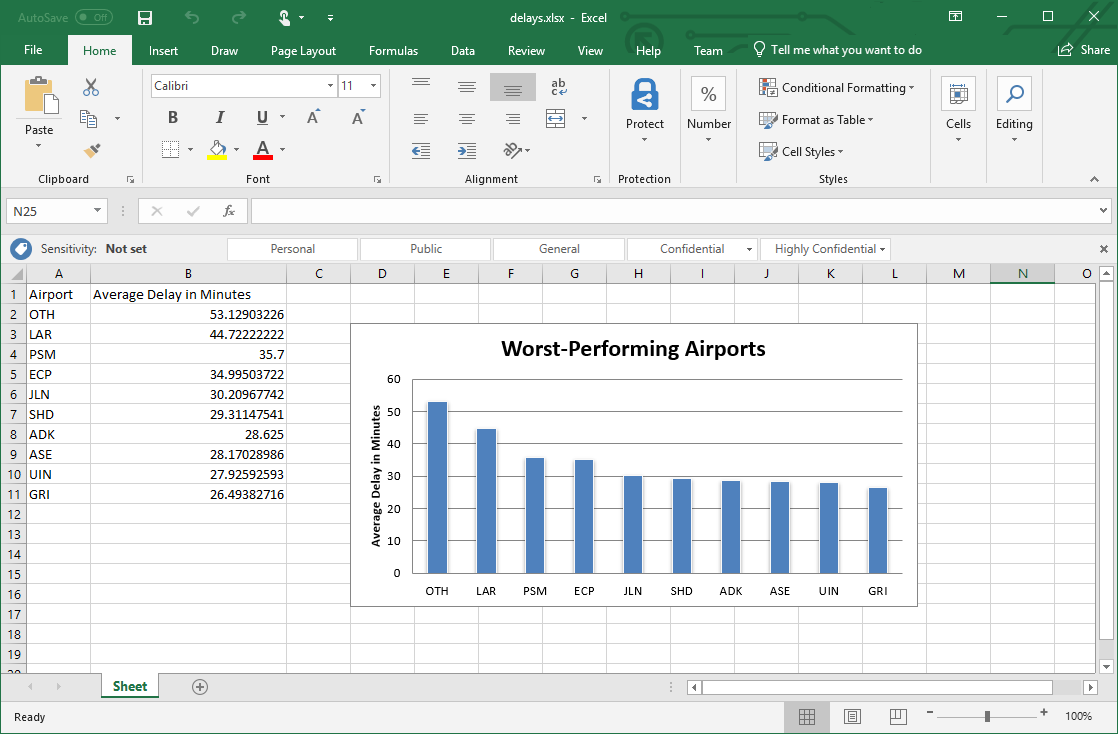
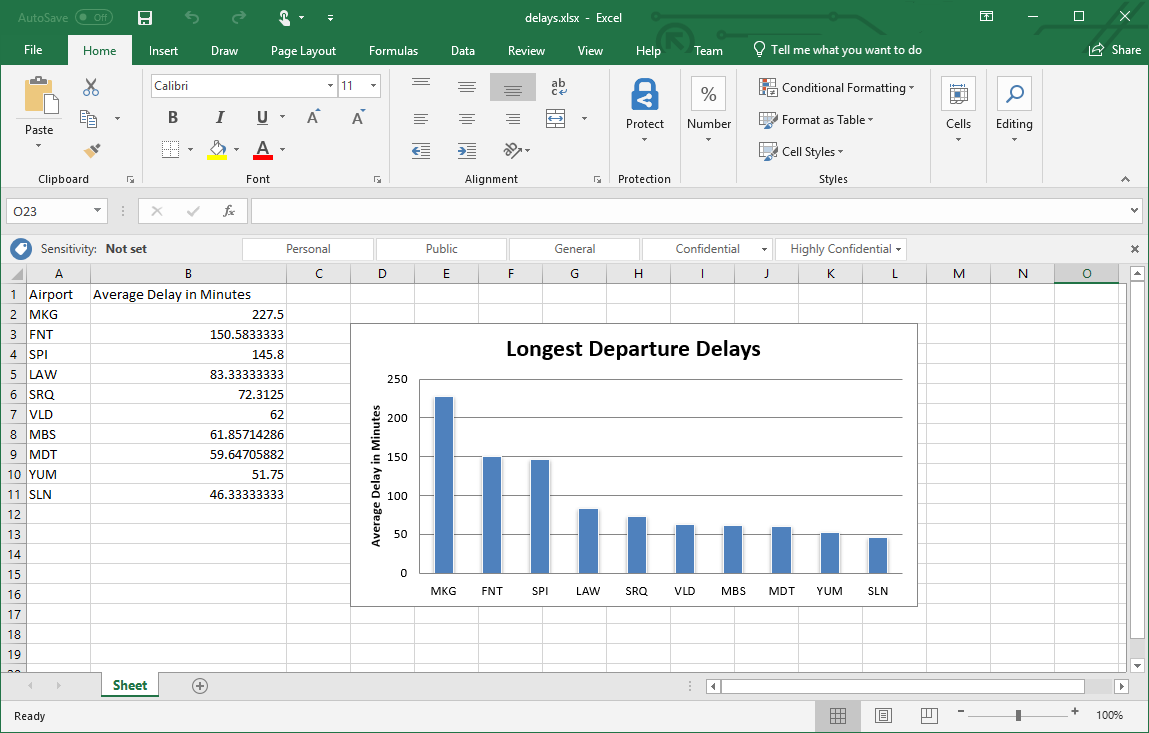
Updated lesson 3

diff --git a/Automate Office 365 Tasks with Python/includes/3-analyze-data-create-excel-spreadsheet.md b/Automate Office 365 Tasks with Python/includes/3-analyze-data-create-excel-spreadsheet.md
@@ -1,8 +1,8 @@
 # Analyze data and create an Excel spreadsheet
 
-The program that you wrote to analyze flight delays and produce a Word document summarizing the results went over well and is saving you up to an hour a day. But management wants more. They want a spreadsheet to go with the Word document. The spreadsheet should include the airports that incurred the worst average arrival delays. Moreover, it should include a chart depicting those delays.
+The program that you wrote in the previous lesson to analyze flight delays and produce a Word document summarizing the results went over well and is adding time back onto your calendar every day. But your manager wants more. She wants a spreadsheet to complement the Word document. The spreadsheet should document the airports that incurred the worst average departure delays, and it should include a chart depicting those delays.
 
-[Python-docx](https://python-docx.readthedocs.io/en/latest/) saved the day when it came to producing Word documents. [OpenPyXL](https://openpyxl.readthedocs.io/en/stable/) is to Excel as Python-docx is to Word: It lets Python apps create Excel spreadsheets, read Excel spreadsheets, and more. More importantly, it supports virtually all of the features of Excel, including the ability to produce charts and graphs.
+[Python-docx](https://python-docx.readthedocs.io/en/latest/) enables Python apps to produce Word documents. [OpenPyXL](https://openpyxl.readthedocs.io/en/stable/) is to Excel as Python-docx is to Word: It lets you create Excel spreadsheets, read Excel spreadsheets, and more. More importantly, it supports virtually all of the features of Excel, including the ability to produce charts and graphs.
 
 Let's build on the previous lesson by using [Pandas](https://pandas.pydata.org/) to analyze flight delays and OpenPyXL to create an XLSX file.
 
@@ -19,60 +19,49 @@ You already know that Pandas is a popular Python library for manipulating and an
 
     If you installled Pandas in the previous lesson, you don't have to install it again. But it's important to install OpenPyXL because you will use it in the next exercise.
 
-1. In the previous lesson, you downloaded a small CSV containing information about flight arrivals and departures for a single day. Let's download a much larger one that contains data for an entire month.
-
-    Create a directory to serve as your project directory and `cd` into it. Then use this command to download a CSV file containing the information on flight delays incurred during the previous month:
+1. Create a directory to serve as your project directory and `cd` into it. Then use this command to download a CSV file containing the latest information on flight delays:
 
 	```bash
-	curl https://topcs.blob.core.windows.net/public/all_flights.csv -o all_flights.csv
+	curl https://topcs.blob.core.windows.net/public/flights.csv -o flights.csv
 	```
 
-	`curl` is a Linux command. It's also installed on Windows 10 build 1706 and higher. If you are running an older version of Windows, you can download `curl` from the [`curl` download page](https://curl.haxx.se/download.html), or you can download the CSV file directly from [here](https://topcs.blob.core.windows.net/public/all_flight.csv).
+	`curl` is a Linux command. It's also installed on Windows 10 build 1706 and higher. If you are running an older version of Windows, you can download `curl` from the [`curl` download page](https://curl.haxx.se/download.html), or you can download the CSV file directly from [here](https://topcs.blob.core.windows.net/public/flights.csv).
 
-    > Don't be surprised if the download takes a little while. The CSV file you downloaded in the previous lesson contained just 100 lines. This one contains more than 600,000!
+1. Take a moment to browse the contents of **flights.csv**. It contains a header row with column names, followed by more than 20,000 rows containing information about individual flights. The ORIGIN column identifies the airport that the flight originated from. DEP_DELAY indicates the number of minutes each flight was late in departing. A negative number means the flight left early.
 
-1. Take a moment to browse the contents of **all_flights.csv**. It contains a header row with column names, followed by more than rows containing information on individual flights. The ARR_DELAY column indicates the number of minutes each flight was late in arriving. A negative number means the flight arrived at its destination early.
-
-1. Create a text file named **all_flights.py** and open it in your favorite text editor. Then paste in the following code and save the file:
+1. Create a text file named **chart_delays.py** and open it in your favorite text editor. Then paste in the following code and save the file:
 
 	```python
 	import pandas as pd
 	
-    # Load the data
-	df = pd.read_csv('all_flights.csv')
-
-    # Eliminate duplicate rows
-    df = df.drop_duplicates()
-
-    # Identify the 10 worst-performing airports
-    mean_by_airport = df.groupby('ORIGIN')['ARR_DELAY'].mean().sort_values(ascending=False).head(10)
-
-    # Print the results
+	df = pd.read_csv('flights.csv')
+    mean_by_airport = df.groupby('ORIGIN')['DEP_DELAY'].mean().sort_values(ascending=False).head(10)
 	print(mean_by_airport)
 	```
 
-	Like many real-world datasets, **all_flights.csv** isn't ready to be used right out of the gate. It contains hundreds of duplicate rows which would bias the results. Fortunately, a call to Pandas's [drop_duplicates()](https://pandas.pydata.org/pandas-docs/stable/reference/api/pandas.DataFrame.drop_duplicates.html) method on the DataFrame removes the duplicate rows. This is one reason why Pandas is so popular among data scientists.
+ 	This code uses `DataFrame`'s [`read_csv()`](https://pandas.pydata.org/pandas-docs/stable/reference/api/pandas.read_csv.html) method to read flight information from the CSV. Then it uses [`groupby()`](https://pandas.pydata.org/pandas-docs/stable/reference/api/pandas.DataFrame.groupby.html) to group rows by originating airport, [`mean()`](https://pandas.pydata.org/pandas-docs/stable/reference/api/pandas.DataFrame.mean.html) to compute the mean of the departure delays, [`sort_values()`](https://pandas.pydata.org/pandas-docs/stable/reference/api/pandas.DataFrame.sort_values.html) to sort from largest to smallest, and [`head()`](https://pandas.pydata.org/pandas-docs/stable/reference/api/pandas.DataFrame.head.html) to extract the top 10 rows. Finally, it outputs the results to the screen.
 
-1. Use the following command to execute **all_delays.py**:
+1. Use the following command to execute **chart_delays.py**:
 
 	```bash
-	python all_delays.py
+	python chart_delays.py
 	```
 
 1. Confirm that the output looks like this:
 
 	```
-    OTH    53.129032
-    LAR    44.722222
-    PSM    35.700000
-    ECP    34.995037
-    JLN    30.209677
-    SHD    29.311475
-    ADK    28.625000
-    ASE    28.170290
-    UIN    27.925926
-    GRI    26.493827
-    Name: ARR_DELAY, dtype: float64
+    ORIGIN
+    MKG    227.500000
+    FNT    150.583333
+    SPI    145.800000
+    LAW     83.333333
+    SRQ     72.312500
+    VLD     62.000000
+    MBS     61.857143
+    MDT     59.647059
+    YUM     51.750000
+    SLN     46.333333
+    Name: DEP_DELAY, dtype: float64
 	```
 
 As in the previous lesson, the data source is a single CSV file. Recall that Pandas includes methods for loading data from SQL databases and other sources *and* for combining them into a single `DataFrame`, so your code could easily be modified to aggregate data from a variety of data sources.
@@ -81,7 +70,7 @@ As in the previous lesson, the data source is a single CSV file. Recall that Pan
 
 TODO: Add introduction.
 
-1. Open **all_delays.py** and insert the following statements at the top of the file:
+1. Open **chart_delays.py** and insert the following statements at the top of the file:
 
 	```python
     from openpyxl import Workbook
@@ -91,7 +80,6 @@ TODO: Add introduction.
 1. Add these statements to the bottom of the file, and then save your changes:
 
 	```python
-    # Create a spreadsheet
     workbook = Workbook()
     worksheet = workbook.active
     worksheet.append(['Airport', 'Average Delay in Minutes'])
@@ -99,12 +87,10 @@ TODO: Add introduction.
     for name, val in mean_by_airport.items():
         worksheet.append([name, val])
 
-    worksheet.column_dimensions['B'].width = 28
-
     chart = BarChart()
     chart.type = "col"
     chart.style = 10
-    chart.title = "Worst-Performing Airports"
+    chart.title = "Longest Departure Delays"
     data = Reference(worksheet, min_col=2, min_row=1, max_row=11)
     categories = Reference(worksheet, min_col=1, min_row=2, max_row=11)
     chart.add_data(data, titles_from_data=True)
@@ -114,19 +100,20 @@ TODO: Add introduction.
     chart.shape = 8
     worksheet.add_chart(chart, "D3")
 
+    worksheet.column_dimensions['B'].width = 28
     workbook.save('delays.xlsx')
 	```
 
-    This code begins by creating a `Workbook` object, getting a reference to the active worksheet, and adding rows to the worksheet. The first cell in each row contains an airport code, and the second contains the average arrival delay for flights originating from that airport. It then creates a `BarChart` object and adds it to the worksheet. The `BarChart` object gets it data from the rows and columns added previously.
+    This code begins by creating a `Workbook` object, getting a reference to the active worksheet, and adding rows to the worksheet. The first cell in each row contains an airport code, and the second contains the average departure delay for flights originating from that airport. It then creates a `BarChart` object and adds it to the worksheet. The `BarChart` object gets it data from the rows and columns added previously.
 
-1. Use the following command to execute **all_delays.py** again:
+1. Use the following command to execute **chart_delays.py** again:
 
 	```bash
-	python all_delays.py
+	python chart_delays.py
 	```
 
 1. Confirm that the project directory now contains a file named **delays.xslx**. Open the file in Microsoft Excel and confirm that it looks like this:
 
     ![Bar chart depicting airport delays](media/openpyxl.png)
 
-OpenPyXL gives you the ability to create spreadsheets on the fly. But what if you wanted to use Python to add whole new capabilities to Excel? What if, for example, you wanted to use machine learning to make predictions from values in a spreadsheet? Funny you should ask, because that is exactly what you will do in the next lesson.
+OpenPyXL gives you the ability to create spreadsheets on the fly. But what if you wanted to use Python to add whole new capabilities to Excel? What if, for example, you wanted to use machine learning to make predictions from values in a spreadsheet? Funny you should ask, because that is the subject of the next lesson.

diff --git a/Automate Office 365 Tasks with Python/includes/2-analyze-data-create-word-doc.md b/Automate Office 365 Tasks with Python/includes/2-analyze-data-create-word-doc.md
@@ -19,7 +19,7 @@ Pandas, short for *Python Data Analysis Library*, is one of the world's most pop
 	pip install python-docx
 	```
 
-1. Create a directory to serve as your project directory and `cd` into it. Then use this command to download a CSV file containing the latest daily information on flight delays:
+1. Create a directory to serve as your project directory and `cd` into it. Then use this command to download a CSV file containing the latest information on flight delays:
 
 	```bash
 	curl https://topcs.blob.core.windows.net/public/flights.csv -o flights.csv
